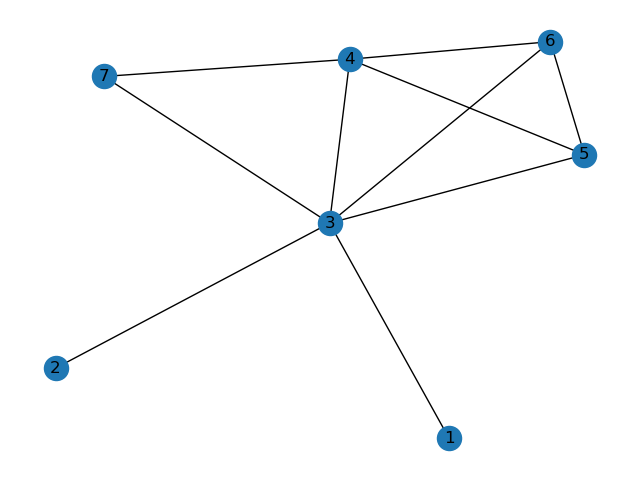
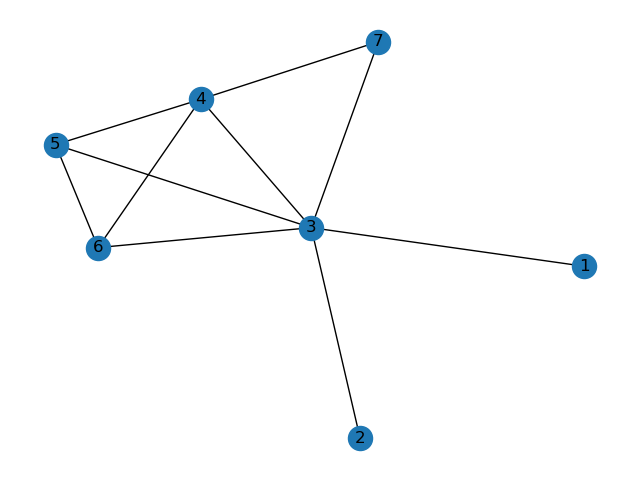
add skel algo

diff --git a/pset2/tex/suyeol_pset2.tex b/pset2/tex/suyeol_pset2.tex
@@ -67,8 +67,13 @@ $\text { compute\_pvalue (pcalg\_samples, } 1,4,[2,3] \text { ) } = 0.3507154878
 \subsection{Skeleton phase [2 points]}
 \subsection*{(e)}
 $\text { pcalg\_skeleton(samples}[: 500], 0.2) = 11$
+
+\includegraphics{images/skel_0.2.png}
+
 \subsection*{(f)}
 $\text { pcalg\_skeleton(samples}[: 500], 0.001) = 9$
+
+\includegraphics{images/skel_0.001.png}
 
 \subsection{Orientation phase [2 points]}
 \subsection*{(g)}

diff --git a/pset2/code/problem2/problem2.py b/pset2/code/problem2/problem2.py
@@ -124,11 +124,11 @@ def pcalg_skeleton(samples, alpha):
     plt.close()
     return G, sep
 
-# pcalg_skeleton(X, 0.05)
-# pcalg_skeleton(X[:500], 0.2)
-# pcalg_skeleton(X[:500], 0.001)
+pcalg_skeleton(X, 0.05)
+pcalg_skeleton(X[:500], 0.2)
+pcalg_skeleton(X[:500], 0.001)
 
-G, s = pcalg_skeleton(X, 0.05)
+# G, s = pcalg_skeleton(X, 0.05)
 
 unshielded = []
 for k in G.nodes:
